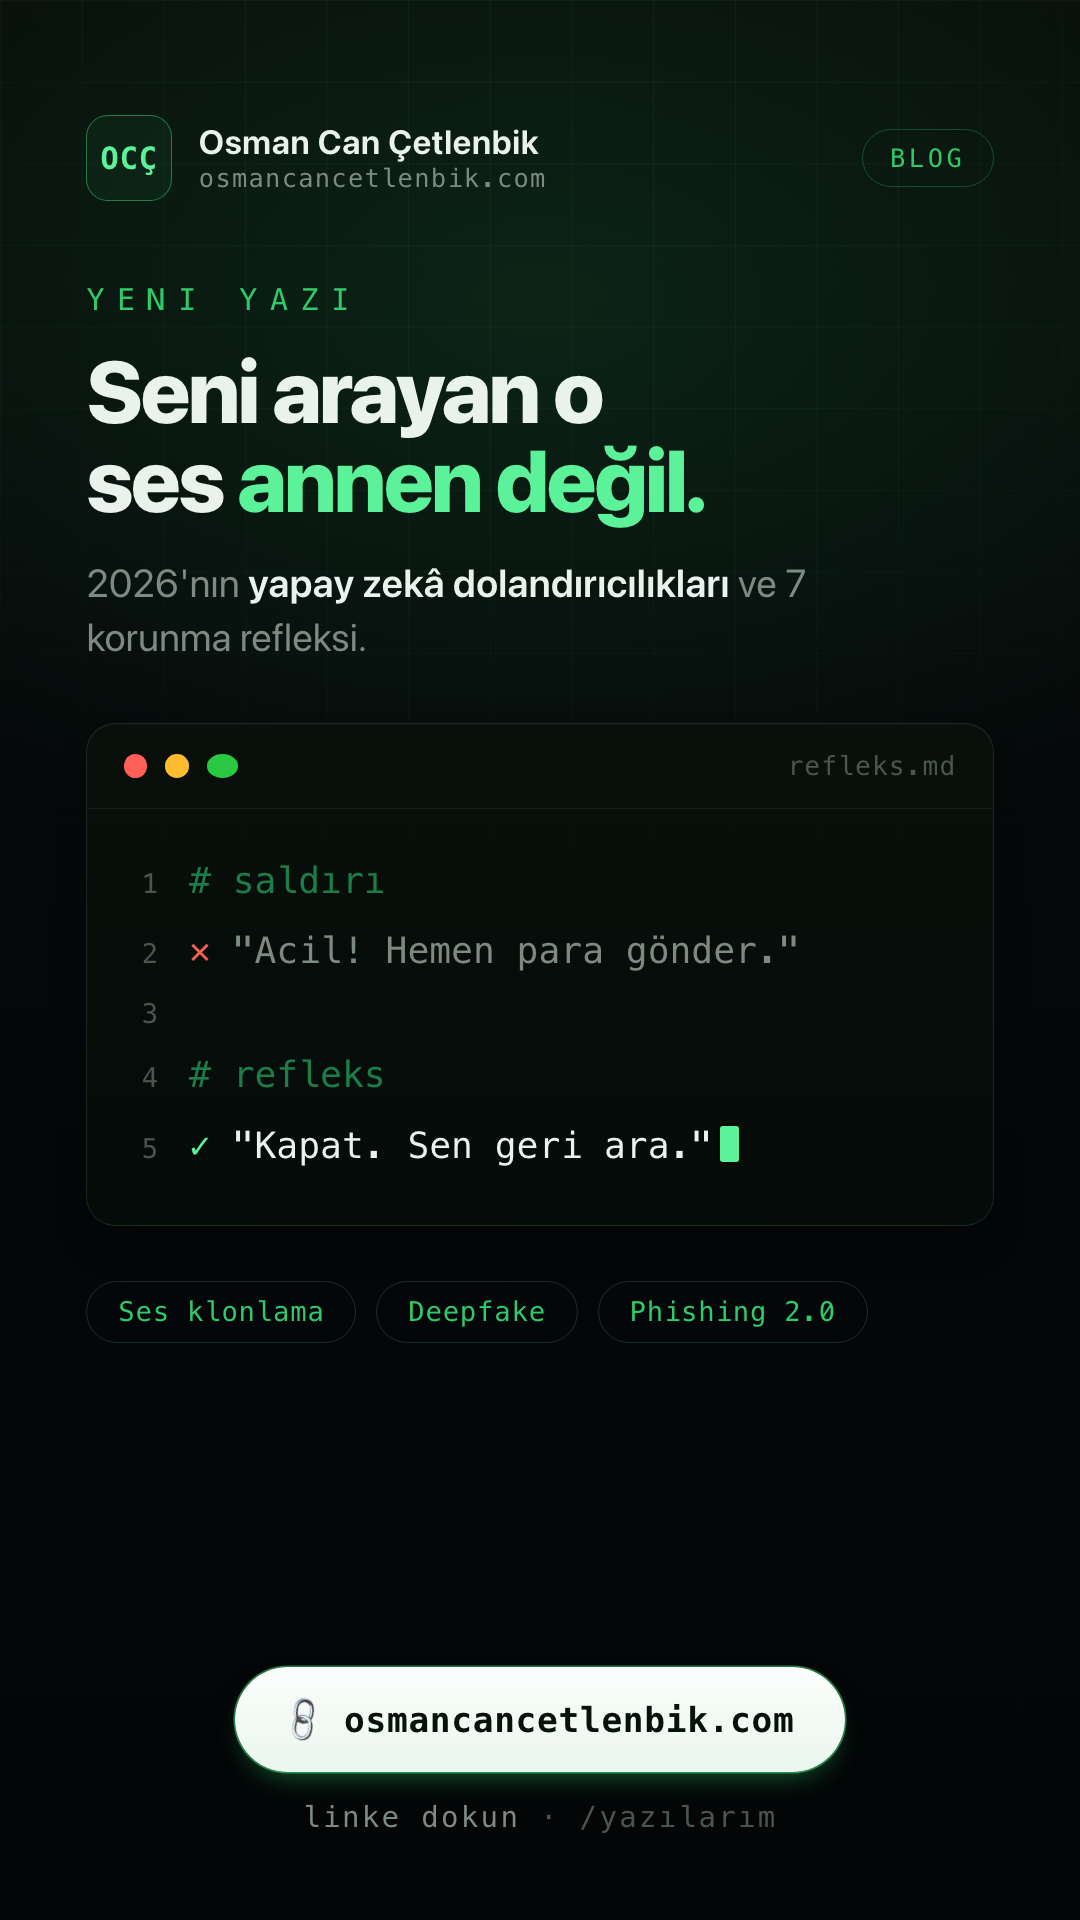
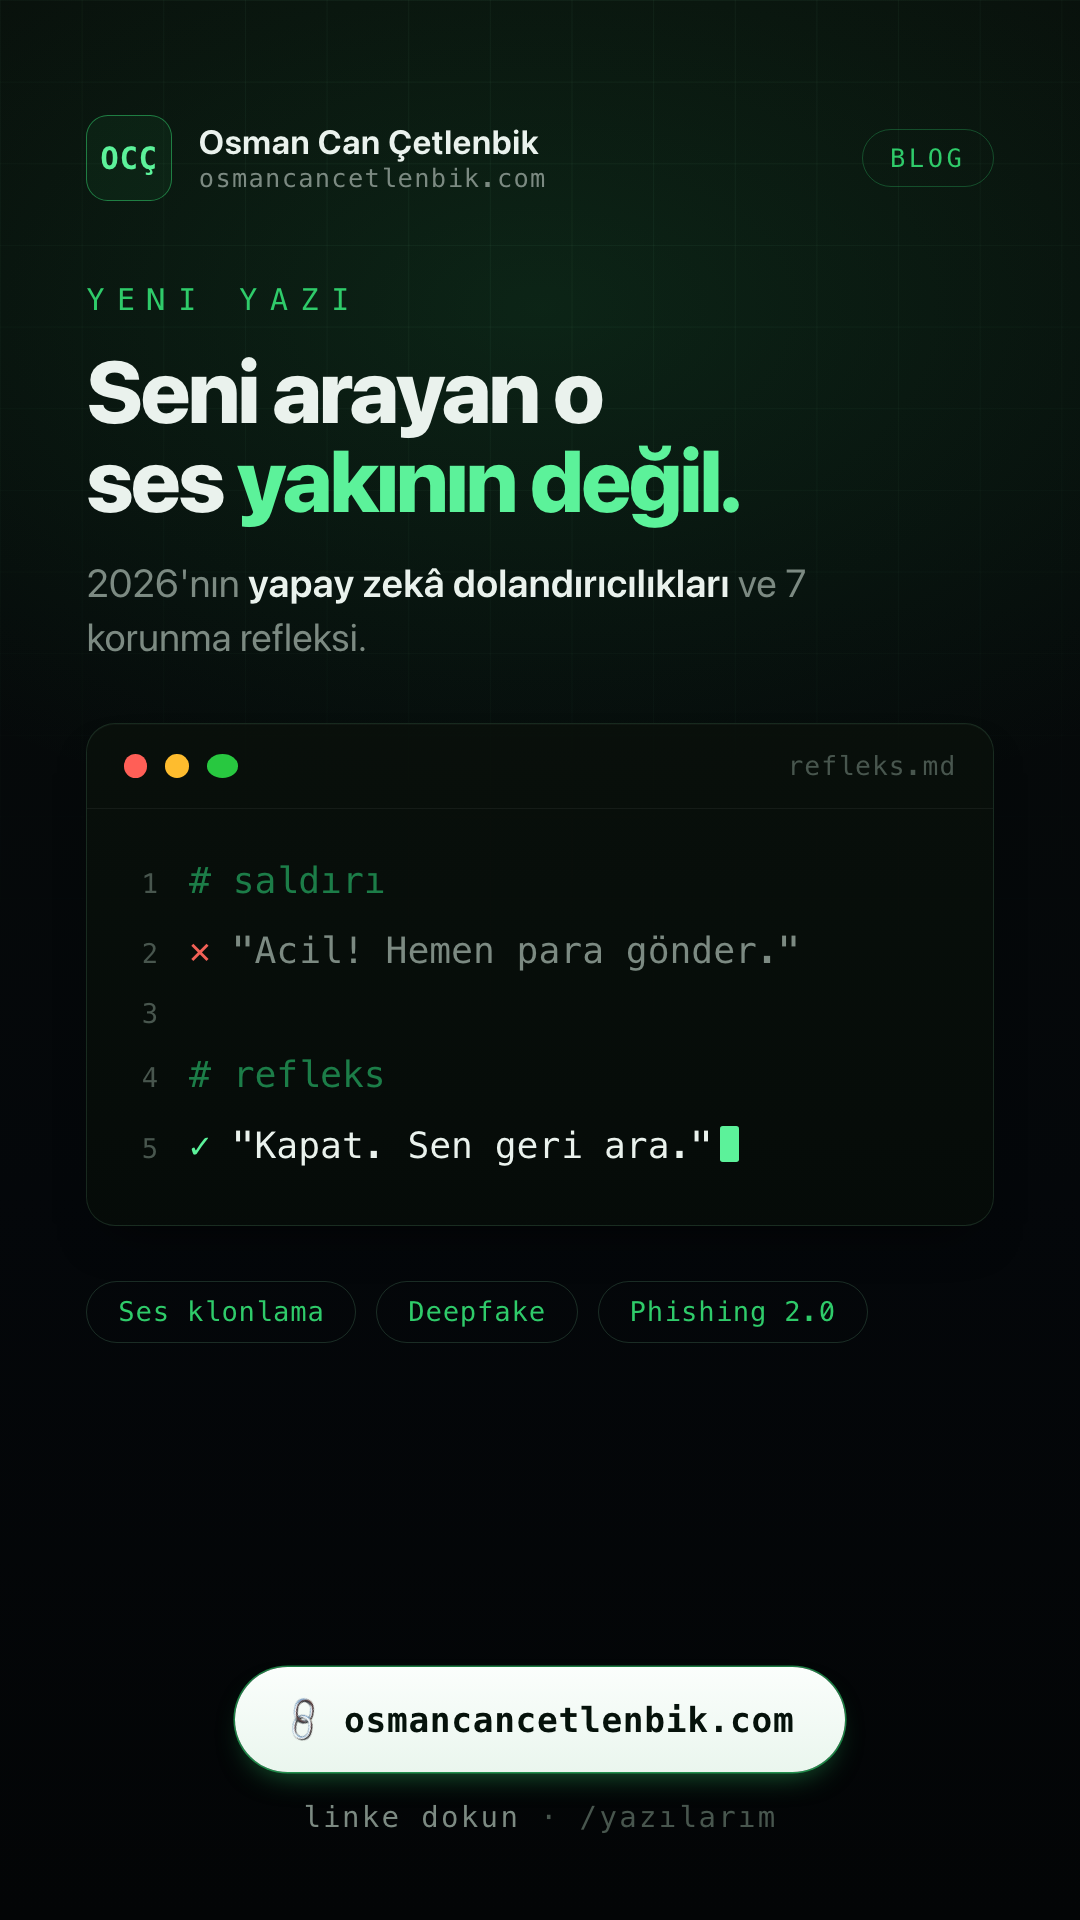
content: 'annen' → 'yakının' (daha kapsayıcı) — yazı başlığı/metni + story görseli güncellendi

Changed region(s): [[0.2139, 0.2188, 0.6722, 0.2812]]

diff --git a/scripts/seed-post-yapay-zeka-dolandiricilik.ts b/scripts/seed-post-yapay-zeka-dolandiricilik.ts
@@ -14,7 +14,7 @@ const prisma = new PrismaClient();
 
 const slug = "yapay-zeka-dolandiriciliklari-2026";
 const title =
-  "Seni arayan o ses annen değil: 2026'nın yapay zekâ dolandırıcılıkları ve 7 korunma refleksi";
+  "Seni arayan o ses yakının değil: 2026'nın yapay zekâ dolandırıcılıkları ve 7 korunma refleksi";
 const excerpt =
   "Klonlanmış sesler, deepfake görüntülü aramalar, kusursuz Türkçe sahte mesajlar… Dolandırıcılık artık ucuzladı ve ölçeklendi. İşte 2026'da en sık karşına çıkacak 6 tuzak ve onları saniyeler içinde fark ettiren 7 refleks — örneklerle.";
 

diff --git a/marketing/stories/yapay-zeka-dolandiricilik-story.html b/marketing/stories/yapay-zeka-dolandiricilik-story.html
@@ -134,7 +134,7 @@
   <div class="eyebrow an d2">Yeni Yazı</div>
 
   <div class="hero an d3">
-    <h1>Seni arayan o ses <span class="ac">annen değil.</span></h1>
+    <h1>Seni arayan o ses <span class="ac">yakının değil.</span></h1>
     <p class="sub">2026'nın <b>yapay zekâ dolandırıcılıkları</b> ve 7 korunma refleksi.</p>
   </div>
 

diff --git a/scripts/content/yapay-zeka-dolandiriciliklari-2026.md b/scripts/content/yapay-zeka-dolandiriciliklari-2026.md
@@ -1,6 +1,6 @@
-Telefonun çalıyor, ekranda "Annem" yazıyor. Açıyorsun, tam onun sesi: *"Oğlum başım dertte, kaza yaptım, hemen şu hesaba para gönder, sonra anlatırım."* Ses titriyor, aceleci, tanıdık. Kalbin sıkışıyor, elin kart bilgilerine gidiyor.
+Telefonun çalıyor, ekranda tanıdık bir isim — bir yakının. Açıyorsun, tam onun sesi: *"Başım dertte, kaza yaptım, hemen şu hesaba para gönder, sonra anlatırım."* Ses titriyor, aceleci, tanıdık. Kalbin sıkışıyor, elin kart bilgilerine gidiyor.
 
-Tek sorun: o, annen değil.
+Tek sorun: o, yakının değil.
 
 2026'da bir yapay zekânın senin sesini kopyalaması için ihtiyacı olan tek şey, internette bir yerde duran **30 saniyelik** bir ses kaydı. Bir Instagram videosu, bir sesli mesaj, bir düğün kaydı… Yeter. Ve bu, dolandırıcılığın sadece bir yüzü.
 
@@ -148,7 +148,7 @@ Garantili kazanç, hediye telefon, "sadece bugün" indirimi… Bir teklif ne kad
 
 En güçlü ve en basit koruma bu: Ailenle, sadece sizin bileceğiniz bir **güvenli kelime** belirleyin. Sıradan, tahmin edilmesi zor bir şey ("gökkuşağı-42" gibi).
 
-Kural şu: Biri arayıp acil para isterse, karşı taraf bu kelimeyi söyleyemiyorsa, o kişi ailen değildir. En gelişmiş ses klonlama bile aile içinde konuşulmuş bir sırrı bilemez.
+Kural şu: Biri arayıp acil para isterse, karşı taraf bu kelimeyi söyleyemiyorsa, o kişi gerçekten yakının değildir. En gelişmiş ses klonlama bile yakın çevrende konuşulmuş bir sırrı bilemez.
 
 *Bu akşam aile grubuna bir mesaj at, bir kelime belirleyin. Beş dakikanı alır, bir gün servetini kurtarabilir.*
 
